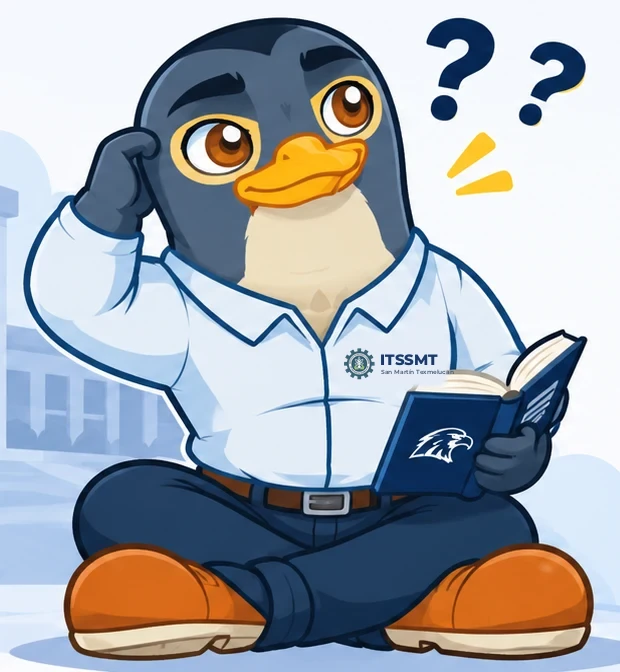
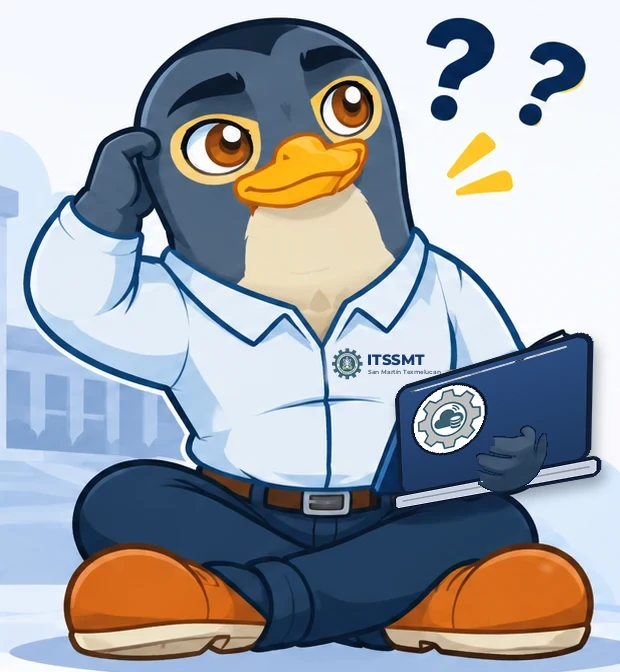
404: mascota con laptop, sin la dirección y redirección cuando un registro no existe
- La mascota sostiene una laptop con el logo del sistema en lugar del libro con el halcón.
- Se quita el recuadro con la dirección solicitada.
- Detalle de documento, editar proyecto y editar usuario muestran la 404 si la API responde que el registro no existe o si el id no tiene un formato válido (showNotFoundPage en api.js).

Changed region(s): [[0.521, 0.4688, 0.9806, 0.7812]]

diff --git a/assets/js/api.js b/assets/js/api.js
@@ -710,6 +710,14 @@ function downloadFilename(response, fallback) {
  * Descarga un archivo protegido de la API con la sesión actual. Si la API responde con error,
  * lanza el mensaje que envía el servidor en lugar de uno genérico.
  */
+/** Un registro pedido por su id ya no existe (la API respondió 404): se muestra la página «no encontrada». */
+function showNotFoundPage(error) {
+    if (error && Number(error.status) !== 404) return false;
+    window.location.replace('/404.php');
+    return true;
+}
+window.showNotFoundPage = showNotFoundPage;
+
 async function downloadApiFile(endpoint, fallbackName, fallbackMessage = 'No se pudo descargar el archivo.') {
     // Se acepta JSON primero para que, si hay error, Laravel responda con el mensaje y no con una página HTML.
     const response = await fetch(`${API_BASE_URL}${endpoint}`, {

diff --git a/404.php b/404.php
@@ -6,8 +6,6 @@ header('X-Robots-Tag: noindex');
 
 $signedIn = is_authenticated();
 $homeUrl = $signedIn ? dashboard_url() : '/';
-$requested = parse_url($_SERVER['REQUEST_URI'] ?? '/', PHP_URL_PATH) ?: '/';
-$requested = mb_strimwidth(rawurldecode($requested), 0, 80, '…');
 ?><!DOCTYPE html>
 <html lang="es">
 <head>
@@ -86,12 +84,7 @@ $requested = mb_strimwidth(rawurldecode($requested), 0, 80, '…');
             background: linear-gradient(135deg, var(--n-navy), var(--n-navy-2)); color: #fff; font-size: clamp(1.05rem, 2.4vw, 1.4rem); font-weight: 800;
             box-shadow: 0 2px 4px rgba(16, 30, 54, .10), 0 10px 22px rgba(27, 57, 106, .25); transform: rotate(-1.5deg);
         }
-        .nf-text { margin: 0 0 8px; color: var(--n-muted); font-size: 1.04rem; line-height: 1.6; max-width: 46ch; }
-        .nf-path {
-            display: inline-flex; align-items: center; gap: 8px; max-width: 100%; margin: 6px 0 22px; padding: 8px 12px; border-radius: 12px;
-            background: var(--n-sky); color: var(--n-navy); font: 600 .86rem/1.3 ui-monospace, SFMono-Regular, Menlo, Consolas, monospace; overflow-wrap: anywhere;
-            box-shadow: inset 0 1px 2px rgba(16, 30, 54, .06);
-        }
+        .nf-text { margin: 0 0 24px; color: var(--n-muted); font-size: 1.04rem; line-height: 1.6; max-width: 46ch; }
         .nf-actions { display: flex; flex-wrap: wrap; gap: 12px; }
         .nf-btn {
             display: inline-flex; align-items: center; justify-content: center; gap: 10px; min-height: 50px; padding: 0 22px; border-radius: 16px; border: 0;
@@ -142,7 +135,6 @@ $requested = mb_strimwidth(rawurldecode($requested), 0, 80, '…');
                 <p class="nf-code" aria-hidden="true">404</p>
                 <h1 class="nf-chip" id="nfTitle"><i class="bi bi-signpost-split" aria-hidden="true"></i> ¡Página no encontrada!</h1>
                 <p class="nf-text">La dirección que buscas no existe, cambió de lugar o ya no está disponible. Revisa que esté bien escrita o vuelve al inicio.</p>
-                <div class="nf-path" title="Dirección solicitada"><i class="bi bi-link-45deg" aria-hidden="true"></i><?= htmlspecialchars($requested) ?></div>
                 <div class="nf-actions">
                     <a class="nf-btn primary" href="<?= htmlspecialchars($homeUrl) ?>"><i class="bi bi-house-door-fill" aria-hidden="true"></i> Volver al inicio</a>
                     <button type="button" class="nf-btn ghost" onclick="history.length > 1 ? history.back() : location.assign('<?= htmlspecialchars($homeUrl, ENT_QUOTES) ?>')"><i class="bi bi-arrow-left" aria-hidden="true"></i> Regresar</button>

diff --git a/pages/admin/user-edit.php b/pages/admin/user-edit.php
@@ -11,6 +11,11 @@ if (!$userId) {
     header('Location: /pages/admin/users.php');
     exit;
 }
+// Número de control o de empleado: sólo letras y números.
+if (!preg_match('/^[A-Za-z0-9]{1,20}$/', (string) $userId)) {
+    require $_SERVER['DOCUMENT_ROOT'] . '/404.php';
+    exit;
+}
 ?>
 <!DOCTYPE html>
 <html lang="es">
@@ -173,6 +178,7 @@ if (!$userId) {
                 
                 console.log('Usuario cargado:', user);
             } catch (error) {
+                if (showNotFoundPage(error)) return;
                 console.error('Error al cargar usuario:', error);
                 alertBox.innerHTML = `
                     <div class="alert alert-danger alert-dismissible fade show" role="alert">

diff --git a/pages/admin/project-edit.php b/pages/admin/project-edit.php
@@ -11,6 +11,11 @@ if (!$projectId) {
     header('Location: /pages/admin/projects.php');
     exit;
 }
+// Un id que no es número no puede ser un proyecto: página «no encontrada».
+if (!ctype_digit((string) $projectId)) {
+    require $_SERVER['DOCUMENT_ROOT'] . '/404.php';
+    exit;
+}
 ?>
 <!DOCTYPE html>
 <html lang="es">
@@ -231,6 +236,7 @@ if (!$projectId) {
                 renderSelectedStudents();
                 await loadSubjectGroups(project.subject_group_id || '');
             } catch (error) {
+                if (showNotFoundPage(error)) return;
                 showAlert('#alertBox', 'danger', 'Error al cargar los datos del proyecto');
             }
         }

diff --git a/pages/repositorio-detail.php b/pages/repositorio-detail.php
@@ -133,6 +133,7 @@
                     renderDocumentPreview(fileType, viewUrl, downloadUrl);
                 }
             } catch (error) {
+                if (showNotFoundPage(error)) return;
                 console.error('Error:', error);
                 document.getElementById('detailsContainer').innerHTML = `<div class="repository-empty-state repository-error-state"><i class="bi bi-file-earmark-x"></i><h2>Documento no disponible</h2><p>${esc(error.message || 'No fue posible cargar el documento solicitado.')}</p><a class="btn btn-primary" href="/pages/repositorio.php"><i class="bi bi-arrow-left"></i> Volver al repositorio</a></div>`;
             }
